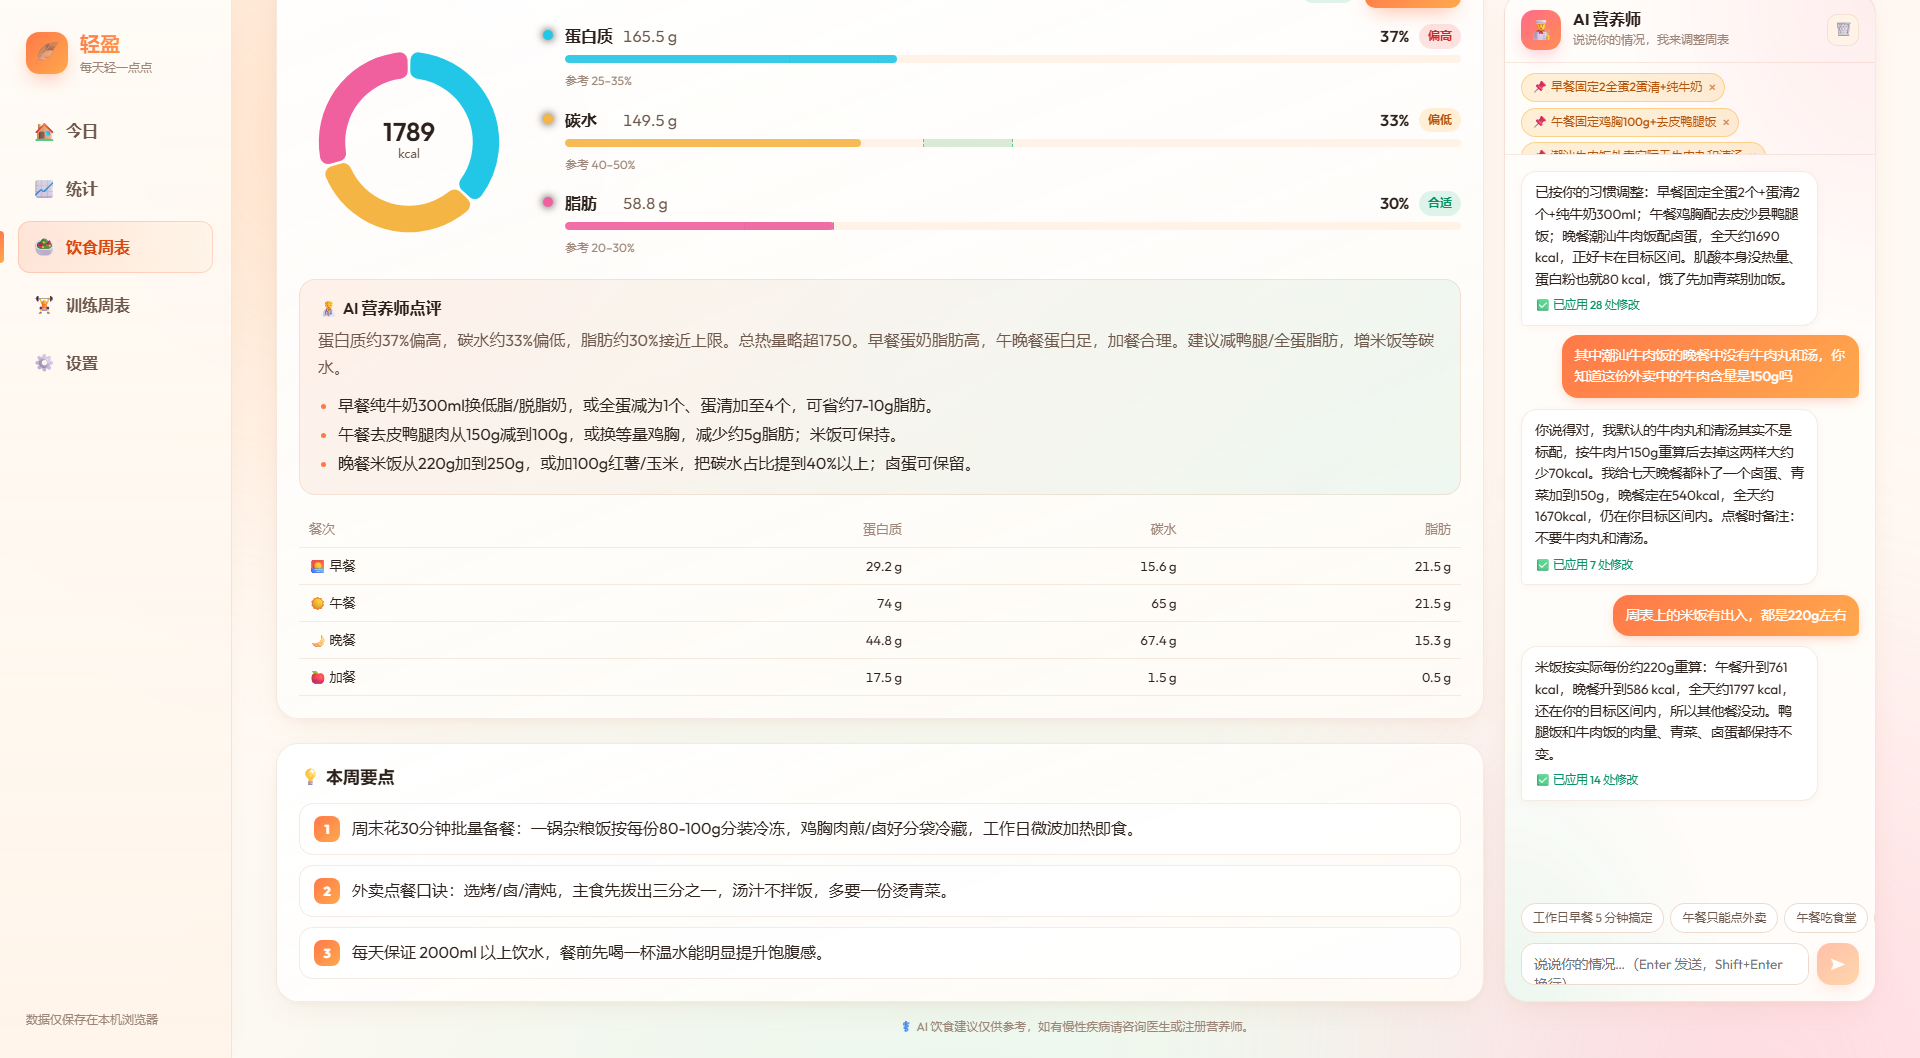
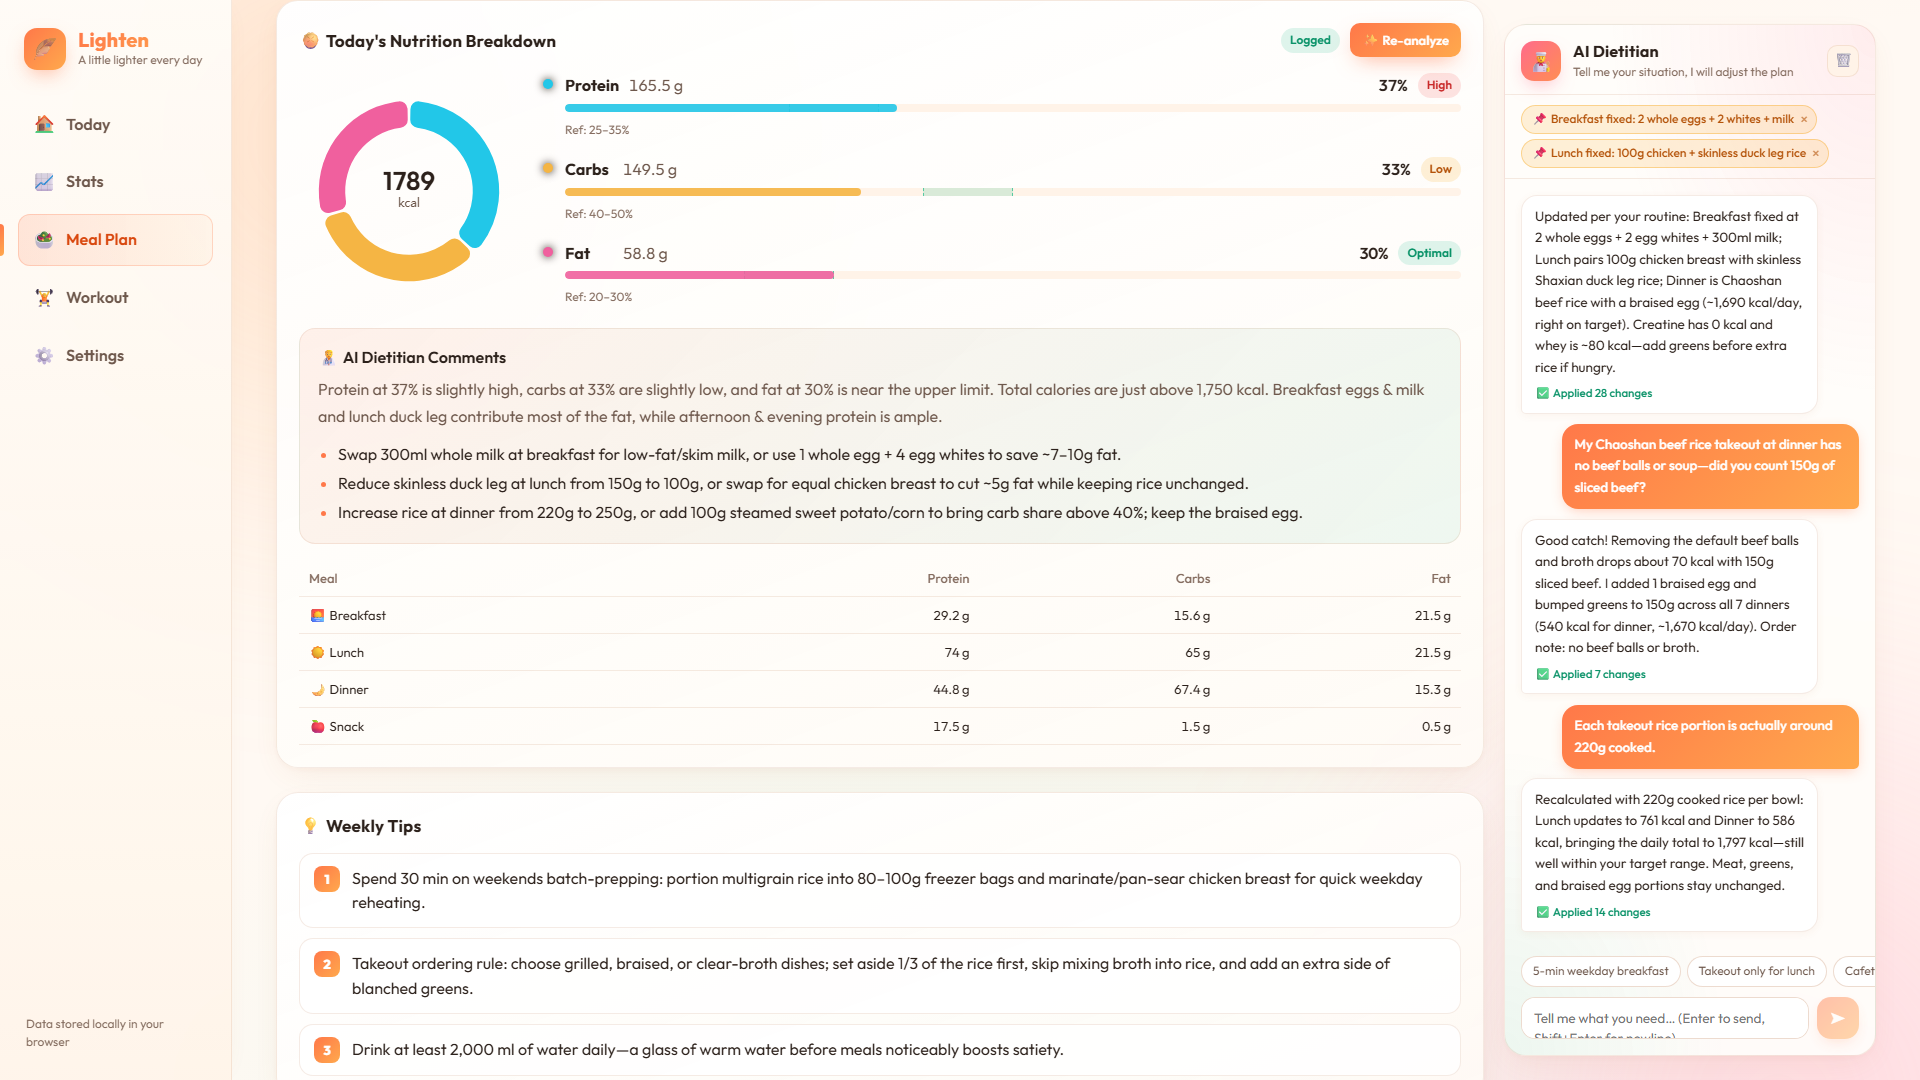
docs: English README with data integrity notes and refreshed English screenshots

diff --git a/README.md b/README.md
@@ -1,75 +1,95 @@
-# 轻盈 · 减重记录（looseweight-demo）
+# Lighten · Weight Loss Tracker (`looseweight-demo`)
 
-个人自用的减重 Web 应用：每日体重打卡 → 趋势图表与统计 → AI 一周减脂饮食周表 + 训练周表 → 打卡后自动算热量（摄入 − 训练消耗）并送上鼓励。
-数据只保存在本机浏览器（localStorage，key：`looseweight-v1`）。
+A personal weight-loss web application: **Daily Weight Check-in → Trend Charts & Stats → AI Weekly Fat-Loss Meal Plan + Workout Plan → Automatic Calorie Calculation (Intake − Burned) & AI Encouragement**.
+All data is stored locally in your browser (`localStorage`, key: `looseweight-v1`). Supports seamless **Chinese / English (`中文` / `EN`)** switching with DeepSeek AI translation for generated plans and encouragement.
 
-## 效果展示
+## Preview
 
-**今日** · 体重打卡、热量圆环（外圈净摄入 / 内圈红色训练消耗）、今日完成情况
+**Today** · Daily weight check-in, calorie ring (outer net intake / inner red workout burn), AI encouragement, and daily completion progress
 
-![今日](docs/screenshots/dashboard.png)
+![Today](docs/screenshots/dashboard.png)
 
-**AI 饮食周表** · 7 天 × 4 餐，右侧 AI 营养师对话调整食谱
+**AI Meal Plan** · 7 days × 4 meals, with an AI Dietitian chat panel on the right to adjust your plan
 
-![饮食周表](docs/screenshots/meal-plan.png)
+![AI Meal Plan](docs/screenshots/meal-plan.png)
 
-**今日营养结构** · 三大营养素热量占比饼图、偏低/合适/偏高评级、AI 点评与建议
+**Today's Nutrition Breakdown** · Macronutrient calorie ratio pie chart, Low / Optimal / High ratings, AI dietitian comments & suggestions
 
-![今日营养结构](docs/screenshots/nutrition.png)
+![Today's Nutrition Breakdown](docs/screenshots/nutrition.png)
 
-**AI 训练周表** · 勾选今日动作，消耗同步首页；右侧 AI 教练按天调整计划
+**AI Workout Plan** · Check off today's completed exercises to sync burned calories to the dashboard; AI Coach chat on the right adjusts workouts by day
 
-![训练周表](docs/screenshots/workout.png)
+![AI Workout Plan](docs/screenshots/workout.png)
 
-**个人档案** · 生活节奏决定食谱难度，自动计算 BMI / BMR / TDEE / 每日热量目标
+**Personal Profile** · Daily routine determines recipe complexity, automatically calculating BMI / BMR / TDEE / Daily Calorie Target
 
-![个人档案](docs/screenshots/settings.png)
+![Personal Profile](docs/screenshots/settings.png)
 
-## 启动
+## Quick Start
 
 ```powershell
-npm install      # 首次
-npm run dev      # 打开 http://localhost:5173
+npm install      # First-time setup
+npm run dev      # Open http://localhost:5173
 ```
 
-其他命令：`npm test`（Vitest 单测）、`npm run build`（类型检查 + 打包）、`npm run preview`（预览打包结果，同样带 AI 代理）。
+Other scripts:
+- `npm test` — Run Vitest unit tests
+- `npm run build` — TypeScript check + production build
+- `npm run preview` — Preview the production build (includes the local AI proxy)
 
-## 配置 AI
+## Configure AI
 
-1. 进入「设置 → AI 配置」，点击预设（DeepSeek / 通义千问 / Kimi / OpenAI）自动填好 Base URL 和模型名，也可以手动填任何 OpenAI 兼容接口。
-2. 填入 API Key（只存在本机，导出备份时不包含）。
-3. 点「测试连接」，提示成功即可。
+1. Go to **Settings → AI Configuration**, click a preset (**DeepSeek / Qwen / Kimi / OpenAI**) to auto-fill the Base URL and model name, or enter any OpenAI-compatible endpoint manually.
+2. Enter your **API Key** (stored locally on your device only; excluded when exporting backups).
+3. Click **Test Connection** and verify the connection succeeds.
 
-| 服务 | Base URL | 默认模型 |
+| Provider | Base URL | Default Model |
 |---|---|---|
-| DeepSeek | https://api.deepseek.com | deepseek-flash |
-| 通义千问 | https://dashscope.aliyuncs.com/compatible-mode/v1 | qwen-plus |
-| Kimi | https://api.moonshot.cn/v1 | moonshot-v1-8k |
-| OpenAI | https://api.openai.com/v1 | gpt-4o-mini |
+| DeepSeek | `https://api.deepseek.com` | `deepseek-flash` |
+| Qwen (DashScope) | `https://dashscope.aliyuncs.com/compatible-mode/v1` | `qwen-plus` |
+| Kimi (Moonshot) | `https://api.moonshot.cn/v1` | `moonshot-v1-8k` |
+| OpenAI | `https://api.openai.com/v1` | `gpt-4o-mini` |
 
-**跨域说明：** 默认请求发往本地 `/ai-proxy/*`，由 Vite 中间件按请求头 `x-target-base` 转发到真实地址（见 `vite.config.ts`），所以必须通过 `npm run dev` / `npm run preview` 访问。“直连模式”只适用于本身支持 CORS 的服务。
+**CORS Proxy Note:** By default, requests are sent to local `/ai-proxy/*` and forwarded by the Vite middleware to the target base URL specified in the `x-target-base` header (see [`vite.config.ts`](vite.config.ts)). Therefore, please access the app via `npm run dev` or `npm run preview`. Enable **Direct Mode** only if your API endpoint natively supports browser CORS.
 
-未配置 AI 时，打卡鼓励使用内置语料，饮食周表 / 训练周表页会提示先去配置。
+When AI is not configured, check-in encouragement uses built-in offline templates, and the Meal Plan / Workout Plan pages will prompt you to configure AI first.
 
-## 使用流程
+## Workflow
 
-1. 首次打开 → 填写个人档案（身高、体重、目标、年龄、活动量、饮食偏好）→ 自动算出 BMI / BMR / TDEE / 每日热量目标。
-2. 「饮食周表」→ 生成我的一周食谱（7 天 × 4 餐，今天这一列高亮）；点格子手动编辑，悬停点「🔄 换一个」只替换这一餐。周表下方「🥧 今日营养结构」点「分析今日饮食」，AI 估算三大营养素，显示热量占比饼图、偏低/合适/偏高评级和改进建议（已打卡按已吃的餐，未打卡按计划预览）。
-3. 「训练周表」→ 首次先填训练条件（场地、单次时长、每周天数、水平、身体限制）→ 生成一周训练（今天这一列红色高亮）；点格子手动编辑。完成后勾选今天的动作，或点「一键完成今日训练」，消耗热量会同步到「今日」的红色圆环、今日进度卡片，以及「统计」的红色柱。右侧 AI 教练可以答疑，也可以按天调整计划。
-4. 「今日」→ 输入体重、勾选按计划吃了哪几顿、填计划外摄入 → 打卡。自动计算热量、生成鼓励、解锁徽章。是否达标按净摄入判断（摄入 − 训练消耗）。
-5. 「统计」→ 体重趋势（7 日均线 + 目标线）、热量图（摄入柱 + 红色消耗柱 + 净摄入线）、预计达成日期、历史记录编辑/删除。
-6. 「设置」→ 徽章墙、导出 / 导入 JSON 备份（含训练数据）、清空数据。
+1. **First Launch** → Fill out your **Personal Profile** (height, starting weight, target weight, age, activity level, dietary preferences) → Automatically calculates BMI, BMR, TDEE, and your Daily Calorie Target.
+2. **Meal Plan** → Click **Generate Weekly Plan** (7 days × 4 meals, with today's column highlighted). Click any cell to edit manually, or click **🔄 Swap** on hover to replace a single meal. Below the table, click **Analyze Today** in **🥧 Today's Nutrition Breakdown** to let AI estimate protein, carbs, and fat grams, render a calorie-share pie chart, rate each macro (Low / Optimal / High), and provide actionable suggestions.
+3. **Workout Plan** → Set your **Workout Preferences** (location, duration per session, days per week, fitness level, physical limitations) → Generate a 7-day workout plan (today's column highlighted in red). Check off completed exercises or click **🔥 Complete All Today** to sync burned calories to the Today calorie ring, Today's Completion card, and Stats chart. Use the **AI Coach** chat on the right to ask form questions or adjust workouts day by day.
+4. **Today** → Enter today's weight, check which planned meals you ate, and log any extra calories → Click **Check In 💪**. Automatically computes net calories (`Intake − Burned`), generates a personalized encouragement message, and unlocks milestone badges. Use the **中文 / EN** switch in the top-right corner of the Today page to switch languages at any time.
+5. **Stats** → View weight trend (with 7-day moving average & target line), calorie chart (intake bars + red burned bars + net intake line), estimated goal date, and edit/delete historical check-in records.
+6. **Settings** → View the badge wall, export / import JSON backups (including workout logs and AI memory), or clear all local data.
 
-## 目录
+## Data Integrity
+
+- **Meal snapshots** — each check-in stores a snapshot (name, portions, kcal) of the meals you ticked, just like completed workouts. Editing, swapping, or regenerating the meal plan later never changes historical intake or the on-track rate.
+- **Migration caveat** — records created before snapshots existed (storage v4 and older, or older backups) are frozen once using the meal plan saved at upgrade/import time. Meals that had already been overwritten before that cannot be recovered.
+- **Backup import** — imported files are validated *and* normalized before replacing local data: numeric strings such as `"400"` become numbers, real calendar dates, value ranges (see [`src/config/limits.ts`](src/config/limits.ts)), activity levels, unique dates/weekdays, and settings types are checked. English encouragement and meal snapshots survive an export → import round trip; the API key is never exported.
+- **AI translation** — translated text is written back only if the Chinese source still matches what was sent; responses that arrive after the plan was edited, regenerated, cleared, or replaced by an import are discarded. Failed translations are retried the next time the data or language changes.
+
+## Project Structure
 
 ```
 src/
-  domain/    纯计算：calc（BMI/BMR/TDEE/统计/预测）、badges（连续打卡/徽章）、encourage（离线鼓励语）、workout（训练消耗/完成状态/净摄入）、nutrition（营养占比/评级）
-  ai/        client（OpenAI 兼容调用 + 错误归一化）、prompts（三套提示词）、parse（JSON 提取与校验）、workoutPrompts / parseWorkout（训练教练提示词与解析）、nutritionPrompts / parseNutrition（营养分析）
-  store/     useStore（Zustand + persist）、toast、dataio（导入校验）
-  services/  encourage（AI 鼓励 + 离线兜底）
-  hooks/     useWide（宽屏判断）
-  components/ pages/ styles/
+  config/      limits (shared input ranges for forms and backup import),
+               ai (provider presets, default settings, per-scenario timeouts & temperatures)
+  domain/      Pure domain logic: calc (BMI/BMR/TDEE/stats/projection), records (check-in meal snapshots),
+               badges (streaks & milestones), encourage (offline templates), workout (burn/completion/net intake),
+               nutrition (macro shares & ratings)
+  ai/          client (OpenAI-compatible caller + error normalization), prompts (meal & encourage prompts),
+               parse (JSON extraction & validation), workoutPrompts / parseWorkout, nutritionPrompts / parseNutrition
+  i18n/        Bilingual dictionary (zh / en), reactive language store, interpolation helpers,
+               LocalizedError (error codes translated at throw time: AI, parse, backup import)
+  store/       useStore (Zustand + localStorage persistence), toast, dataio (backup export + import validation/normalization)
+  services/    encourage (AI encouragement + offline fallback), aiTranslate (DeepSeek Zh→En sync),
+               translateMerge (stale-safe merging of translation results)
+  hooks/       useWide (responsive breakpoint hook)
+  components/  pages/ (lazy-loaded per route)  styles/
 ```
 
-> AI 饮食与训练建议仅供参考，如有慢性疾病、伤病或其他身体不适，请咨询医生、注册营养师或专业教练。
+Charts use on-demand ECharts imports (line / bar / pie + the components actually used), and pages are code-split with `React.lazy`.
+
+> ⚕ AI diet and workout suggestions are for reference only. If you have chronic conditions, injuries, or physical discomfort, please consult a physician, registered dietitian, or certified fitness coach.

diff --git a/docs/superpowers/plans/2026-10-30-data-integrity-and-config.md b/docs/superpowers/plans/2026-10-30-data-integrity-and-config.md
@@ -1,0 +1,75 @@
+# Data integrity and configuration implementation plan
+
+> **For agentic workers:** Use test-driven-development for behavioral fixes; independent file groups may use dispatching-parallel-agents. Review the combined working tree before completion.
+
+**Goal:** Fix the four reviewed data consistency problems and consolidate duplicated configuration and untranslated UI literals.
+
+**Architecture:** Daily records own immutable meal snapshots. Import validates and normalizes data before replacing state. AI translations apply only when their source still matches current data. Shared configuration owns AI presets/timeouts and input constraints; existing domain policies retain their values.
+
+**Tech Stack:** React, TypeScript, Zustand persist, Vite, Vitest, ECharts.
+
+## Constraints and decisions
+
+- Work in the explicitly named existing project at `D:/FanHua/my-project/code/looseweight-demo`; preserve the user's existing dirty files and screenshots.
+- Do not move the project, replace installed dependencies, call paid AI services, or commit/publish changes.
+- User's “一起修改” authorizes the preceding review recommendations and hardcoding cleanup; proceed without another design approval.
+- Keep the existing storage key and default ports to retain browser data access.
+- Legacy records have no original menu: capture the currently stored plan once during migration/import; document that older overwritten meals cannot be recovered.
+- UI colors, calendar constants, and established health formulas remain domain/design rules; do not make every literal a setting.
+
+## Task 1: Record snapshots and robust imports (root)
+
+Files: `src/types.ts`, `src/domain/calc.ts`, `src/domain/nutrition.ts`, `src/domain/validation.ts`, `src/config/limits.ts`, `src/store/useStore.ts`, `src/store/dataio.ts`, corresponding tests, `CheckInForm.tsx`, `ProfileForm.tsx`, `Stats.tsx`.
+
+- [ ] Add regression tests that store a 400 kcal breakfast, replace the plan with 900 kcal, and still read 400; also test editing weight, migration, and empty plans.
+- [ ] Add round-trip import tests for English encouragement and meal snapshots; reject invalid dates/profiles/settings/duplicate days and normalize string kcal to numbers.
+- [ ] Run focused tests and observe the reviewed failures.
+- [ ] Add `DailyRecord.mealSnapshot?: Partial<Record<MealKey, Meal>>`, `snapshotRecord(record, plan)`, and `recordMeals(record, plan)`; use snapshots for display/intake/nutrition and preserve record metadata on update.
+- [ ] Migrate persistence to version 5, freeze legacy records once, and use normalized objects when importing.
+- [ ] Centralize input ranges shared by profile/check-in/import validation. Keep established limits unchanged.
+- [ ] Run focused tests until passing.
+
+## Task 2: Translation consistency (independent files)
+
+Files: `src/services/aiTranslate.ts`, new translation helper/test modules only.
+
+- [ ] Reproduce late responses applying old names to a new plan, clear/import while pending, changes under the same createdAt, and retries after a failed response.
+- [ ] Separate pure translation output from guarded state commits; compare full source content, not just weekday/createdAt.
+- [ ] Keep current exports compatible with App/components. Preserve current translations while guarding stale results and handle meal/workout/nutrition/encouragement paths.
+- [ ] Run focused regression tests.
+
+## Task 3: Configuration, UI literals, and bundle size (independent files)
+
+Files: `src/config/ai.ts`, `src/ai/client.ts`, its tests, `AiConfig.tsx`, AI call sites except translation/store files, `Charts.tsx`, `MacroPie.tsx`, `Modal.tsx`, dictionaries, `App.tsx`, `EChart.tsx`.
+
+- [ ] Centralize existing provider defaults and request timeout values; presets remain editable through current Settings UI. Root integrates the store default.
+- [ ] Move Chinese-only chart/confirmation/loading/error labels into existing bilingual dictionaries.
+- [ ] Cover meaningful AI client behavior with regression tests, including timeout while consuming a response body if changed.
+- [ ] Import only used ECharts components and lazy-load pages; keep functional chart features.
+- [ ] Run focused tests/type checking and report measured build sizes.
+
+## Final integration
+
+- [ ] Reconcile shared AI settings/timeouts and test all store/import/translation changes together.
+- [ ] Run `npm test`, `npm run build`, `git diff --check`.
+- [ ] Request an independent review of the changed working tree; fix material findings and run relevant regressions.
+- [ ] Update README with config locations, migration caveat, and validation results. Report actual scope and any remaining limitations.
+
+## Progress
+
+- Baseline: 152 tests pass; production build passes, main JS 1,551.65 kB / gzip 516.37 kB.
+- Review reproductions: old intake 400→900; imported string 400→4000; English encouragement omitted on import; old Egg translation applied to new noodles.
+- Done (2026-10-30):
+  - Task 1: `DailyRecord.mealSnapshot`, `src/domain/records.ts`, snapshot-first `intakeOf` / `todayMeals`, store freezes on upsert/import, persist v5 migration, `src/config/limits.ts`; `validateImport` rebuilt to normalize (`"400"`→400), validate real dates/ranges/activity/duplicate dates & weekdays/settings, keep `encouragementEn` + snapshots; `buildExport` + round-trip test; Stats edit keeps `encouragementEn`.
+  - Task 2: `src/services/translateMerge.ts` guarded merges (source text must match; cleared plan never resurrected); content signatures instead of `createdAt`; failed translations retry on next change.
+  - Task 3 (bundle only): ECharts on-demand imports + `React.lazy` pages. Entry JS 334.85 kB / gzip 113.30 kB; EChart chunk 585.56 kB / gzip 198.35 kB (loaded only by chart pages).
+  - Verification: 178 tests pass, `npm run build` passes.
+- Not done (out of scope of the review fix): AI preset/timeout centralization and remaining Chinese-only chart/dialog literals.
+- Done (2026-10-30, hardcoding pass):
+  - `src/config/ai.ts`: `AI_PRESETS`, `DEFAULT_SETTINGS`, `AI_TIMEOUT`, `AI_TEMPERATURE`; all 15 timeout and 8 temperature literals replaced.
+  - `src/i18n/errors.ts` `LocalizedError`: `AiError`, `ParseError` and backup-import errors now use codes, and their messages follow the UI language.
+  - Localized GoalProgress, chart legends/target labels, confirm dialog buttons, badge popup, AI disclaimer (`constants.ts` removed), chat aria-label, Qwen preset label, storage-full toast, default workout focus, document title / `<html lang>`.
+  - `WorkoutDay.rest` explicit flag (prompt + parser); keyword fallback uses `/\brest\b/i`.
+  - `SEX_LABEL` deduplicated across prompt files.
+  - Verification: 184 tests pass, build passes; EN screenshots of Stats / Goal Progress / AI config checked.
+- Still open: ~350 inline `lang === 'en' ? … : …` ternaries (migrate to dictionary in batches); chart colors → theme config; BMI standard for English users (product decision).
